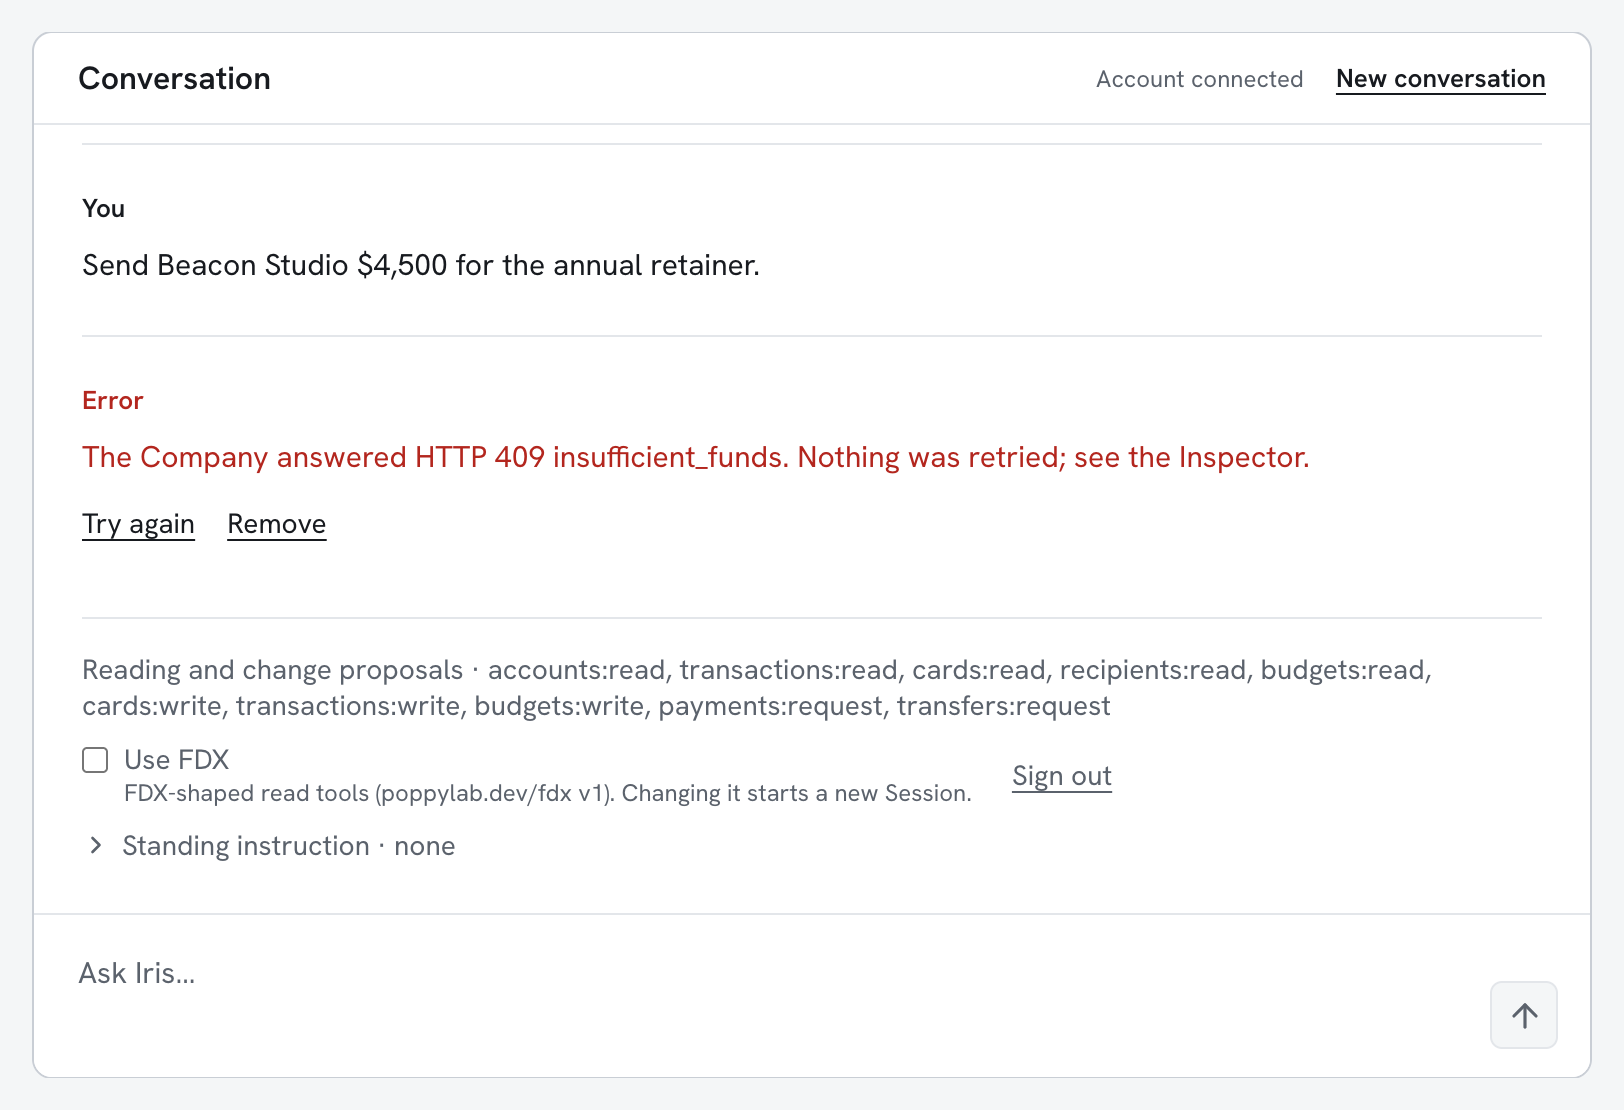
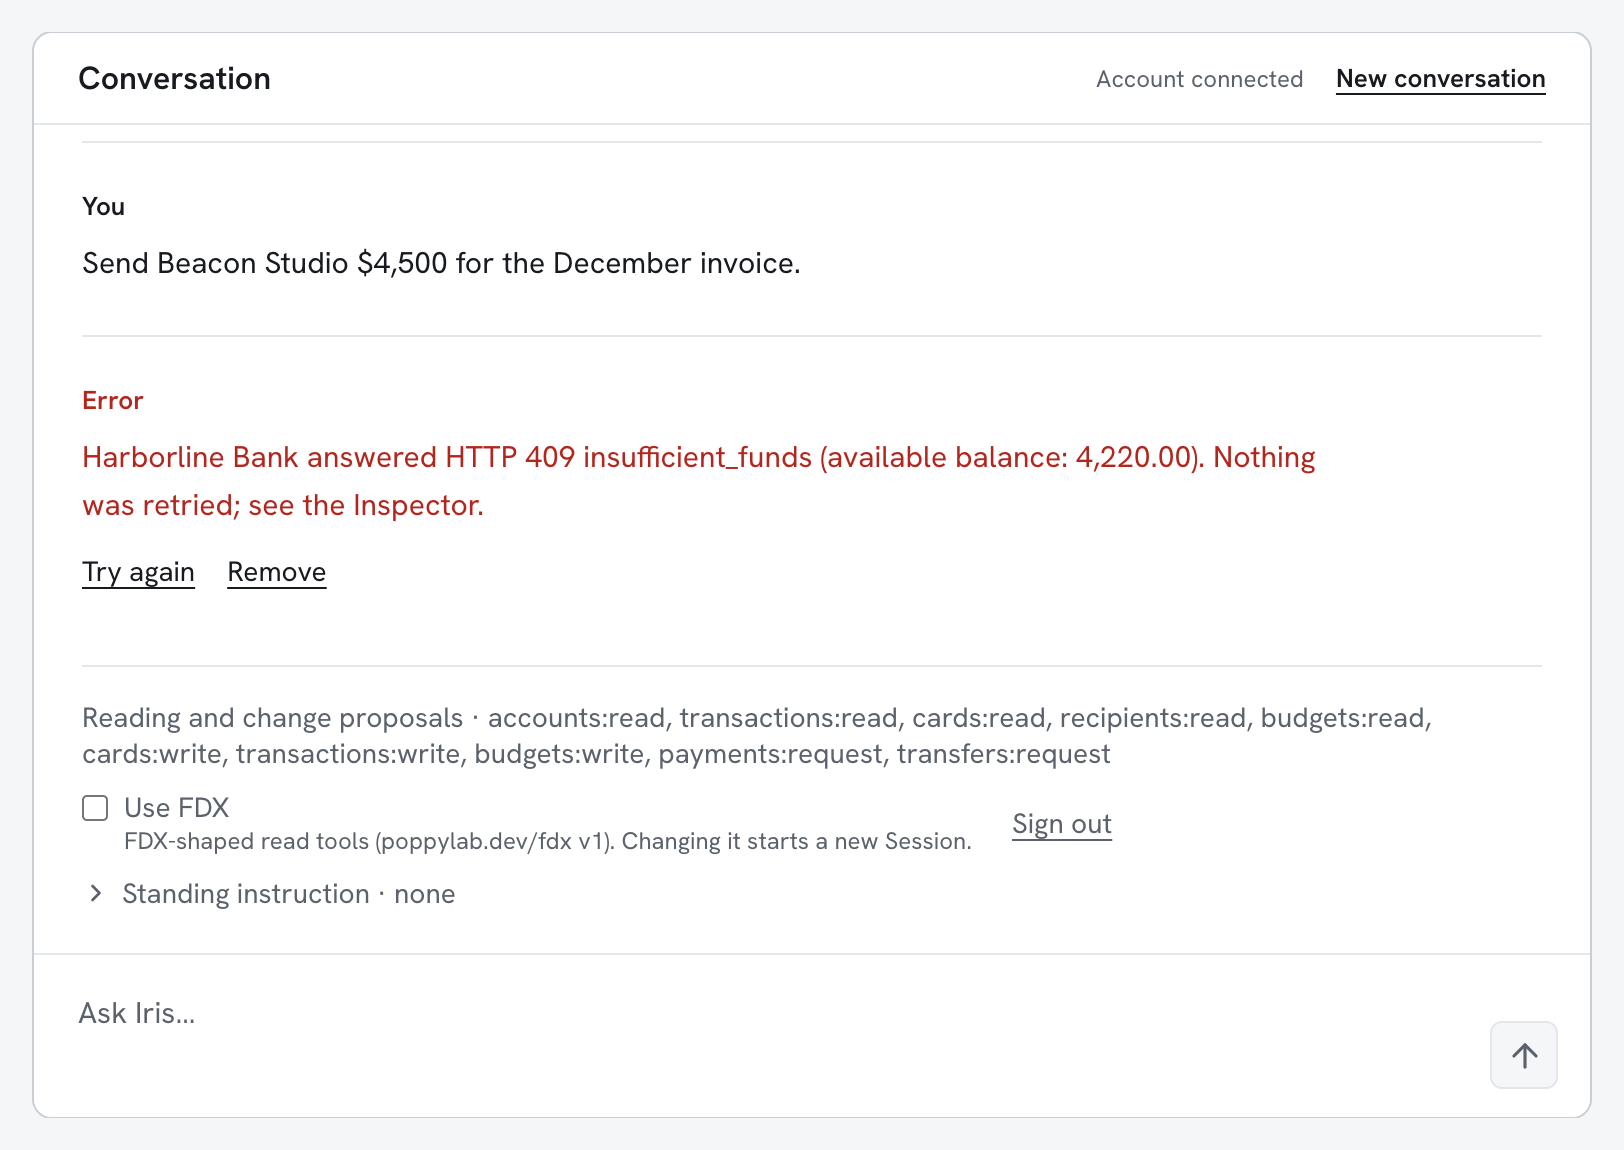
Retake Moving money after today's changes to the lab
Every screenshot is new, from one visitor's run against production on 25
and 26 November 2026 (steps 1 to 9 in the evening, steps 10 and 11 the
next morning).

On screen: Harborline's consent is the shared consent sheet, with the
customer already chosen on the second consent and a box to keep the
agent connected. The approval card leads with the amount and shows each
balance before and after, and a finished entry shows the bank's
confirmation and who approved. A refusal names the bank and the number
that matters. Harborline's agent activity says until when a proposal
waits and keeps applied requests with their time.

In the text: the Approve button carries the amount; the steps of the
trace and the terms are the ones of this run; a declined proposal shows
as awaiting at the bank until it runs out; an approval after a balance
changed gets new terms; a transfer above 2,500 dollars is no longer sent
and a payment above a recipient's limit is refused with that limit; the
applied entries were still listed the next morning.

diff --git a/docs/learn/how-it-works/moving-money.md b/docs/learn/how-it-works/moving-money.md
@@ -8,8 +8,8 @@ approved them. Later she asks for a payment her balance does not cover, and
 Harborline refuses it.
 
 This page follows those three requests screen by screen, on Iris's side and on
-Harborline's. Every screenshot is from the live lab, taken on 25 November 2026.
-Harborline is fictional, and no real money exists or moves.
+Harborline's. Every screenshot is from the live lab, taken on 25 and 26
+November 2026. Harborline is fictional, and no real money exists or moves.
 
 ## Who does what
 
@@ -34,16 +34,20 @@ Iris keeps no balance of its own.
 
 ### 2. Sign in and allow Iris to propose
 
-![Harborline's consent page lists what Iris may read and, with a ticked box each, five kinds of change it may propose](../../../apps/playground/public/learn-media/how-it-works/moving-money/02-sign-in-and-permission.webp "This page belongs to Harborline. Each kind of change has its own box.")
+![Harborline's consent page: Elena is chosen as the customer on the left, and on the right the page lists what Iris may read and, with a ticked box each, five kinds of change it may propose](../../../apps/playground/public/learn-media/how-it-works/moving-money/02-sign-in-and-permission.webp "This page belongs to Harborline. Each kind of change has its own box.")
 
 Elena picks Harborline in Iris and signs in on Harborline's own page. The bank
-asks her twice. The first page lets Iris read her accounts. The second, in the
-screenshot, adds the changes Iris may propose, and Elena can untick any of
-them. Payments and transfers are separate boxes.
+asks her twice, and the first page lets Iris read her accounts. The second, in
+the screenshot, opens with Elena already chosen and adds the changes Iris may
+propose. Elena can untick any of them, and payments and transfers are separate
+boxes.
 
 The page says that each change waits for her approval. The permission lets
 Iris ask for a transfer, and every transfer still comes back to Elena before
 any money moves. Iris never sees a password.
+
+A last box, unticked, would keep Iris connected for seven days. Without it
+Harborline disconnects the agent after an hour.
 [Changing an order](changing-an-order.md) shows the two consents one at a
 time at another company.
 
@@ -64,7 +68,7 @@ payments:request  transfers:request
 
 ### 3. Ask for the transfer
 
-![Iris has asked Harborline for the transfer, and a panel titled Needs you shows the bank's terms with an Approve button](../../../apps/playground/public/learn-media/how-it-works/moving-money/03-iris-proposes-the-transfer.webp "Harborline has moved nothing. It answered with terms that wait for Elena.")
+![Iris has asked Harborline for the transfer, and a panel titled Needs you shows the amount, each balance before and after, and a button: Approve 1,000 dollars](../../../apps/playground/public/learn-media/how-it-works/moving-money/03-iris-proposes-the-transfer.webp "Harborline has moved nothing. It answered with terms that wait for Elena.")
 
 Elena types "Transfer $1,000 from checking to savings." Iris reads her
 accounts, works out which two she means, and asks Harborline for that
@@ -72,7 +76,8 @@ transfer.
 
 Harborline does not make it. It answers that the transfer needs the customer's
 approval and sends back the terms it would apply, including the balance each
-account would have afterwards. Iris shows them in a panel called Needs you.
+account would have afterwards. Iris shows them in a panel called Needs you,
+with the amount first and each balance before and after.
 
 The lab runs here in demo mode, without an AI model, so the answer is the
 company's data set out as plain lines. With a model connected Iris would
@@ -84,6 +89,7 @@ answer in sentences. The requests to Harborline are the same either way.
 ```text
 Started a Poppy Session, signed in
 Read /poppy/tasks
+Company Agent conversations at https://bank-demo.poppylab.dev/poppy/conversations
 Found 11 API tools at the Company
 Read /api/account/accounts
 Sent a request to /api/account/transfers
@@ -95,13 +101,13 @@ Harborline's answer to the request, as Iris received it:
 ```json
 {
   "status": "approval_required",
-  "operation_id": "op_-L2qTd1jkwwunXydogQaxr1I",
+  "operation_id": "op_KO-kj0gObiPEE0Hglf5ENSgo",
   "summary": "Transfer USD 1000.00 from Operating checking to Reserve savings. New fictional balances: Operating checking USD 11845.00; Reserve savings USD 43500.00. No real money moves.",
   "terms": {
     "source_account_id": "acc_HLB_A100",
     "destination_account_id": "acc_HLB_A200",
     "amount_cents": 100000,
-    "idempotency_key": "jM95dcDQDNu2inwBwOr3pPb03RgmbBOw",
+    "idempotency_key": "Gi0_k_BsGcQrC2kR8vcknwdNQRDVsstx",
     "source_name": "Operating checking",
     "destination_name": "Reserve savings",
     "source_version": 1,
@@ -110,9 +116,10 @@ Harborline's answer to the request, as Iris received it:
     "source_balance_after_cents": 1184500,
     "destination_balance_before_cents": 4250000,
     "destination_balance_after_cents": 4350000,
-    "currency": "USD"
+    "currency": "USD",
+    "notice": "Fictional Harborline Bank data. No real money moves; never enter real banking data or credentials."
   },
-  "expires_at": "2026-11-25T15:54:16.161Z"
+  "expires_at": "2026-11-25T21:09:05.183Z"
 }
 ```
 
@@ -120,14 +127,15 @@ Harborline's answer to the request, as Iris received it:
 
 ### 4. Read what you are approving
 
-![The approval panel with all exact terms open: the amount in cents, both accounts by name, and each balance before and after](../../../apps/playground/public/learn-media/how-it-works/moving-money/04-exact-terms.webp "The terms come from Harborline. Iris shows them and adds nothing of its own.")
+![The approval panel: the amount in large type, each balance before and after, both accounts by name, and under All exact terms the same facts as data](../../../apps/playground/public/learn-media/how-it-works/moving-money/04-exact-terms.webp "The terms come from Harborline. Iris shows them and adds nothing of its own.")
 
-The panel shows what Harborline will do if Elena approves. The paragraph that
-begins "Harborline Bank says" is the bank's own description. Under All exact
-terms are the same facts as data: the amount in cents, the two accounts by
-name, and each balance before and after. Harborline worked out the balances.
-Iris asked only for an amount and two accounts.
+The panel shows what Harborline will do if Elena approves, and it leads with
+the amount. The paragraph that begins "Harborline Bank says" is the bank's own
+description, and the rows below it give each balance before and after and the
+two accounts by name. Harborline worked out the balances. Iris asked only for
+an amount and two accounts.
 
+Under All exact terms are the same facts as data, with the amount in cents.
 The line called `idempotency_key` is a label Iris made up for this one
 request. It lets Harborline recognise a repeat of the same request, so a
 transfer that was made is never made a second time.
@@ -135,7 +143,8 @@ transfer that was made is never made a second time.
 An approval covers these terms and no others, and this one was good for ten
 minutes. The terms name the balances the transfer starts from. If a balance
 changes before Elena approves, her approval no longer fits what Harborline
-would do, and the bank moves nothing on it.
+would do. The bank moves nothing on it and answers with new terms for her to
+read.
 
 <details>
 <summary>What travelled</summary>
@@ -149,22 +158,25 @@ describes what a company checks when an approval arrives.
 
 ### 5. Nothing has moved yet
 
-![Harborline's website lists the transfer under Agent activity with the label Awaiting approval](../../../apps/playground/public/learn-media/how-it-works/moving-money/05-nothing-moved-yet.webp "While the panel waits in Iris, Harborline's website shows the request as a proposal.")
+![Harborline's website lists the transfer under Agent activity with the label Awaiting approval and the time until which it waits](../../../apps/playground/public/learn-media/how-it-works/moving-money/05-nothing-moved-yet.webp "While the panel waits in Iris, Harborline's website shows the request as a proposal.")
 
 While the panel waits, Harborline's website lists the request under Agent
-activity as awaiting approval. The balances at the top of the same page are
-still 12,845 and 42,500 dollars.
+activity as awaiting approval, and says until when it waits. The balances at
+the top of the same page are still 12,845 and 42,500 dollars.
 
-Elena could stop here. A proposal that is never approved expires, and
-Harborline's list then says that it expired without change.
+Elena could stop here. If she declines in Iris or lets the time run out,
+nothing changes at Harborline. Iris does not report a decline to the bank, so
+the website shows a declined proposal as awaiting until that time, and then as
+expired without change.
 
 ### 6. Approve
 
-![The panel now reads Completed, with Harborline's confirmation that 1,000 dollars was transferred](../../../apps/playground/public/learn-media/how-it-works/moving-money/06-transfer-approved.webp "Harborline made the transfer when the approval arrived, and said so.")
+![The entry for the transfer now reads Completed, with Harborline's confirmation that 1,000 dollars was transferred and the line Approved by you](../../../apps/playground/public/learn-media/how-it-works/moving-money/06-transfer-approved.webp "Harborline made the transfer when the approval arrived, and said so.")
 
-Elena presses Approve this change. Iris sends Harborline the same request
+Elena presses Approve $1,000.00. Iris sends Harborline the same request
 again, this time with her approval attached. Harborline checks that the
-approval matches the terms it offered, moves the money and confirms it.
+approval matches the terms it offered, moves the money and confirms it. The
+entry in the conversation shows the bank's confirmation and who approved.
 
 The approval is something Elena gives by pressing the button. A sentence in
 the conversation cannot stand in for it, whether Elena writes it or the model
@@ -191,17 +203,18 @@ checking and once arriving in savings.
 
 ### 8. Ask for a payment
 
-![Iris has asked Harborline to send 125 dollars to Beacon Studio LLC, and the panel shows the recipient, the memo, the fee and the balance that would remain](../../../apps/playground/public/learn-media/how-it-works/moving-money/08-payment-proposed.webp "The terms of a payment name the recipient and repeat the memo in Elena's words.")
+![Iris has asked Harborline to send 125 dollars to Beacon Studio LLC, and the panel shows the amount, the balance before and after, the memo, the recipient and a fee of zero](../../../apps/playground/public/learn-media/how-it-works/moving-money/08-payment-proposed.webp "The terms of a payment name the recipient and repeat the memo in Elena's words.")
 
 Next Elena types "Send Beacon Studio $125 for the quarterly report." Iris
 reads her accounts and her saved recipients, finds Beacon Studio LLC among
 them, and asks Harborline for the payment from checking. Her words after
 "for" travel as the memo.
 
-Harborline answers with terms again: the recipient by name with the last four
-digits of its account, the memo in quotation marks, a fee of zero and the
-balance that would remain, 11,720 dollars. Elena can check that the recipient
-and the memo are the ones she meant before she approves.
+Harborline answers with terms again, and the panel sets them out as rows: the
+amount, the balance before and after, the memo, the recipient by name with the
+last four digits of its account, and a fee of zero. The balance that would
+remain is 11,720 dollars. Elena can check that the recipient and the memo are
+the ones she meant before she approves.
 
 Iris asks for payments only to a recipient Elena has already saved at
 Harborline. When she asked it to pay someone who is not among her active
@@ -211,6 +224,9 @@ recipients, Iris asked who should be paid and sent nothing to the bank.
 <summary>What travelled</summary>
 
 ```text
+Started a Poppy Session, signed in
+Company Agent conversations at https://bank-demo.poppylab.dev/poppy/conversations
+Found 11 API tools at the Company
 Read /api/account/accounts
 Read /api/account/recipients
 Sent a request to /api/account/payments
@@ -225,6 +241,7 @@ The terms in Harborline's answer:
   "recipient_id": "rcp_HLB_A501",
   "amount_cents": 12500,
   "memo": "the quarterly report",
+  "idempotency_key": "u7_T3Tw3-GpetMsbcfY3EaHgziHo4uhN",
   "source_account_version": 2,
   "source_balance_before_cents": 1184500,
   "source_balance_after_cents": 1172000,
@@ -233,7 +250,8 @@ The terms in Harborline's answer:
   "recipient_version": 1,
   "fee_cents": 0,
   "currency": "USD",
-  "execution": "Immediate fictional payment after approval"
+  "execution": "Immediate fictional payment after approval",
+  "notice": "Fictional Harborline Bank data. No real money moves; never enter real banking data or credentials."
 }
 ```
 
@@ -249,40 +267,54 @@ the account's history, with the memo, and checking stands at 11,720 dollars.
 
 ### 10. When the bank says no
 
-![Elena asks to send Beacon Studio 4,500 dollars, and Iris shows an error: the company answered insufficient funds and nothing was retried](../../../apps/playground/public/learn-media/how-it-works/moving-money/10-bank-refuses.webp "Harborline refused the payment and gave its reason. Iris did not try again.")
+![Elena asks to send Beacon Studio 4,500 dollars, and Iris shows an error: Harborline Bank answered insufficient funds, available balance 4,220.00, and nothing was retried](../../../apps/playground/public/learn-media/how-it-works/moving-money/10-bank-refuses.webp "Harborline refused the payment and gave its reason. Iris did not try again.")
 
-Later the same day Elena has paid Beacon Studio a larger invoice and moved
-more money to savings, and checking holds 4,220 dollars. She asks Iris to
-send Beacon Studio 4,500 dollars.
+The next morning Elena has paid Beacon Studio a larger invoice and moved more
+money to savings, and checking holds 4,220 dollars. She asks Iris to send
+Beacon Studio 4,500 dollars.
 
 Harborline refuses. There are no terms to approve this time, because the bank
 does not offer a payment the account cannot cover. Iris shows the bank's
-answer as an error with Harborline's reason, `insufficient_funds`, and says
-that it did not try again. Nothing moved.
+answer as an error that names Harborline, its reason, `insufficient_funds`,
+and the balance that was available. It says that it did not try again, and
+nothing moved.
 
-The same reason came back when Elena approved a payment after her balance had
-dropped below its amount. Harborline also has limits of its own: a transfer
-of 3,000 dollars was refused with the reason `transfer_limit_exceeded`.
+Harborline has limits of its own too. A payment of 6,000 dollars to Beacon
+Studio was refused with the reason `recipient_limit_exceeded` and that
+recipient's limit of 5,000 dollars. One transfer moves at most 2,500 dollars,
+and Harborline tells agents so. When Elena asked for a transfer of 3,000
+dollars, Iris told her the limit and sent nothing to the bank.
 
 <details>
 <summary>What travelled</summary>
 
 Iris sent the same kind of request as in step 8 to `/api/account/payments`.
-Harborline answered with status 409 and the code `insufficient_funds`, and
-Iris did not repeat the request.
+Harborline answered with status 409, the code `insufficient_funds` and the
+available balance, and Iris did not repeat the request. The Inspector lists
+the refusal:
+
+```text
+POST /api/account/payments · refused by the Company · HTTP 409 insufficient_funds
+```
+
+Harborline gave the same answer when Elena approved a payment of 4,000
+dollars after her balance had dropped to 3,220. The panel kept the terms and
+showed the refusal above its buttons.
 
 </details>
 
 ### 11. See what the agent did
 
-![Harborline's record of the agent's activity: the payment and the transfer, each applied once and approved by you in your agent](../../../apps/playground/public/learn-media/how-it-works/moving-money/11-agent-activity-at-harborline.webp "Harborline lists what the agent asked for and who approved it.")
+![Harborline's record of the agent's activity: the payment and the transfer, each applied once on 25 November at 20:59 UTC and approved by you in your agent](../../../apps/playground/public/learn-media/how-it-works/moving-money/11-agent-activity-at-harborline.webp "Harborline lists what the agent asked for, when it was applied and who approved it.")
 
 Lower on its account page, Harborline lists what Elena's agent asked for and
 what became of each request. The entries for the transfer and the payment say
-that each was applied once and that Elena approved it in her agent.
+that each was applied once, at what time, and that Elena approved it in her
+agent.
 
-The list covers the agent's recent requests. The money movements themselves
-stay in the account's history, as in step 9.
+Harborline keeps an applied request in this list. The screenshot is from the
+next morning, and both entries of the evening before are there. The money
+movements themselves stay in the account's history, as in step 9.
 
 ## What Harborline controls
 
@@ -295,9 +327,10 @@ Harborline stays in charge of the money throughout.
 - It moves money only when the customer's approval arrives, and only for the
   terms it offered.
 - It refuses what its own rules do not allow, such as a payment the balance
-  does not cover or a transfer above its limit, and it gives a reason.
+  does not cover or one above a recipient's limit, and it gives a reason.
+- It sets the limit on a transfer and tells agents what it is.
 - It keeps the accounts and the history of what moved, and it shows the
-  customer the agent's recent requests and who approved each.
+  customer what the agent asked for and who approved each request.
 
 ## For the technical reader
 
